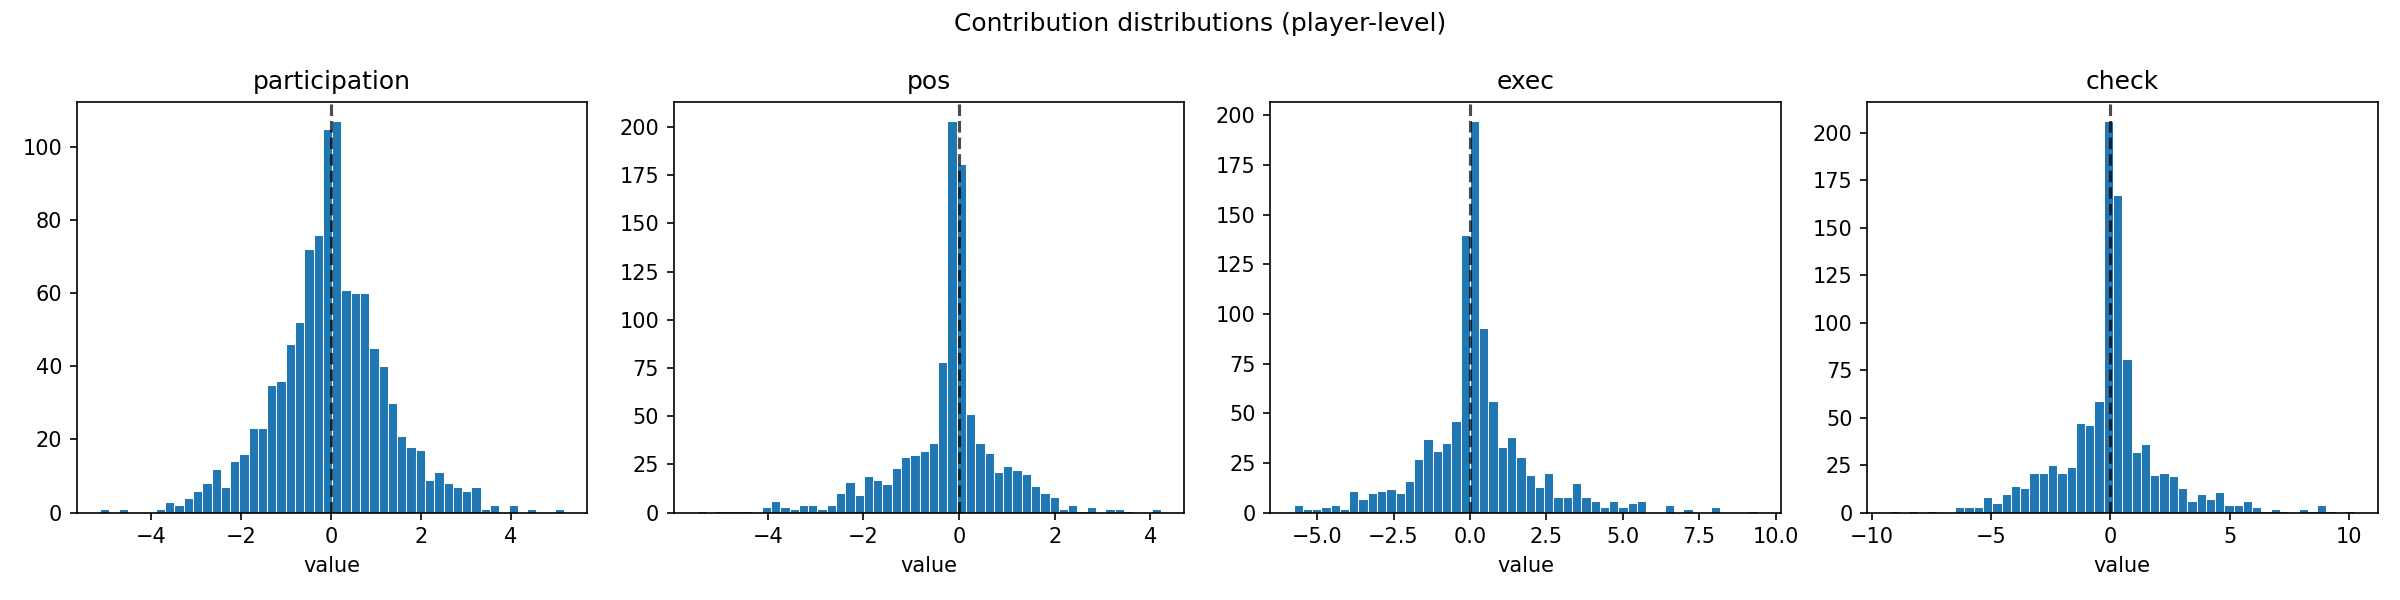
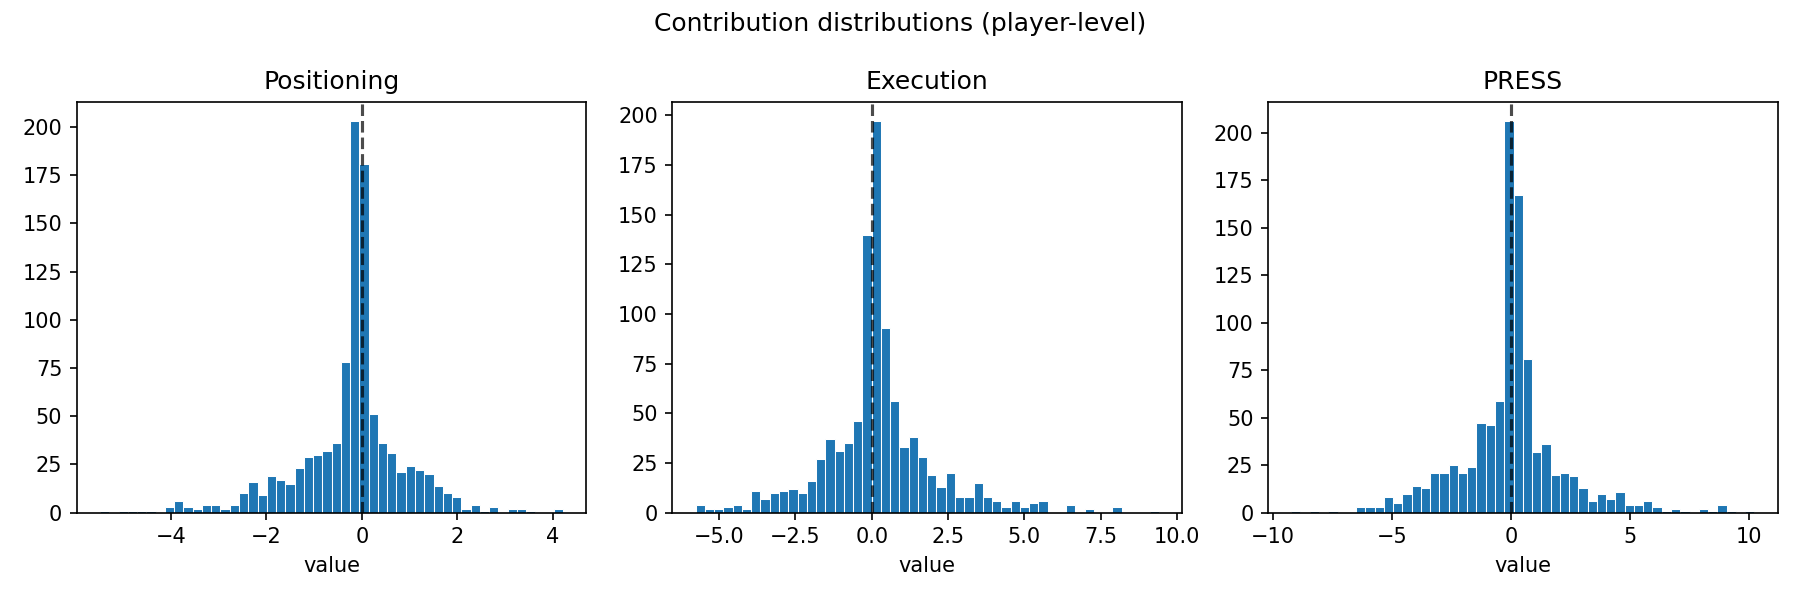
competition push

diff --git a/scripts/_visuals.py b/scripts/_visuals.py
@@ -421,44 +421,33 @@ def attribution_spreads() -> None:
 
 
 def contribution_distributions() -> None:
-    """Histograms: participation | pos | exec | check side by side."""
+    """Histograms: save Positioning, Execution, PRESS as separate PNGs for stacking in LaTeX."""
     data_specs = []
-    p_path = RESULTS_DIR / "participation.csv"
-    if p_path.exists():
-        df = pd.read_csv(p_path)
-        if "n_presses" in df.columns:
-            df = df.rename(columns={"n_presses": "n_press"})
-        if "total" in df.columns:
-            data_specs.append(("participation", df["total"].dropna(), "total"))
     m_path = RESULTS_DIR / "modeling.csv"
     if m_path.exists():
         m = pd.read_csv(m_path)
         if "pos_total" in m.columns:
-            data_specs.append(("pos", m["pos_total"].dropna(), "pos_total"))
+            data_specs.append(("Positioning", m["pos_total"].dropna(), "contrib_positioning.png"))
         if "exec_total" in m.columns:
-            data_specs.append(("exec", m["exec_total"].dropna(), "exec_total"))
+            data_specs.append(("Execution", m["exec_total"].dropna(), "contrib_execution.png"))
         if "check_total" in m.columns:
-            data_specs.append(("check", m["check_total"].dropna(), "check_total"))
+            data_specs.append(("PRESS", m["check_total"].dropna(), "contrib_press.png"))
     if not data_specs:
-        print("contribution_distributions: need participation.csv and/or modeling.csv")
+        print("contribution_distributions: need modeling.csv")
         return
 
     PLOTS_DIR.mkdir(parents=True, exist_ok=True)
-    n = len(data_specs)
-    fig, axes = plt.subplots(1, n, figsize=(4 * n, 4))
-    if n == 1:
-        axes = [axes]
-    for ax, (label, s, _) in zip(axes, data_specs):
+    for label, s, fname in data_specs:
+        fig, ax = plt.subplots(figsize=(6, 3))
         ax.hist(s, bins=50, edgecolor="white", linewidth=0.5)
         ax.axvline(0, color="black", linestyle="--", alpha=0.7)
         ax.set_title(label)
         ax.set_xlabel("value")
-    plt.suptitle("Contribution distributions (player-level)")
-    plt.tight_layout()
-    out = PLOTS_DIR / "contribution_distributions.png"
-    plt.savefig(out, dpi=150)
-    plt.close()
-    print(f"Saved: {out}")
+        plt.tight_layout()
+        out = PLOTS_DIR / fname
+        plt.savefig(out, dpi=150)
+        plt.close()
+        print(f"Saved: {out}")
 
 
 def player_rankings_visual(top_n: int = 20) -> None:
@@ -466,7 +455,7 @@ def player_rankings_visual(top_n: int = 20) -> None:
     paths = {
         "participation": (RESULTS_DIR / "participation.csv", "total"),
         "distance": (RESULTS_DIR / "distance.csv", "total"),
-        "modeling": (RESULTS_DIR / "modeling.csv", "check_total"),
+        "PRESS": (RESULTS_DIR / "modeling.csv", "check_total"),
     }
     dfs = {}
     for name, (p, total_col) in paths.items():
@@ -474,7 +463,7 @@ def player_rankings_visual(top_n: int = 20) -> None:
             df = pd.read_csv(p)
             if "n_presses" in df.columns and "n_press" not in df.columns:
                 df = df.rename(columns={"n_presses": "n_press"})
-            if total_col not in df.columns and name == "modeling":
+            if total_col not in df.columns and name == "PRESS":
                 total_col = "total"
             if total_col in df.columns and "player_name" in df.columns:
                 dfs[name] = df.nlargest(top_n, total_col)[["player_name", total_col]]
@@ -769,14 +758,14 @@ def plot_start_frame_positioning(seq_id: int) -> None:
     print(f"Saved: {out}")
 
 
-def team_level_check() -> None:
-    """Bar chart of team-level total check (modeling only)."""
+def team_level_press() -> None:
+    """Bar chart of team-level total PRESS (modeling only)."""
     s_path = DATA_DIR / "stints.parquet"
     paths = {
-        "check": (RESULTS_DIR / "modeling.csv", "check_total"),
+        "press": (RESULTS_DIR / "modeling.csv", "check_total"),
     }
     if not s_path.exists():
-        print("team_level_check: need stints.parquet")
+        print("team_level_press: need stints.parquet")
         return
 
     stints = pd.read_parquet(s_path)[["player_id", "team_id", "team"]].drop_duplicates()
@@ -794,16 +783,16 @@ def team_level_check() -> None:
         dfs[name] = agg
 
     if not dfs:
-        print("team_level_check: no method CSVs found")
+        print("team_level_press: no method CSVs found")
         return
 
-    # Merge all methods; sort by check (or first available)
+    # Merge all methods; sort by press (or first available)
     merged = dfs[list(dfs.keys())[0]][["team_id", "team"]].copy()
     for name in dfs:
         merged = merged.merge(dfs[name], on=["team_id", "team"], how="outer")
     for name in dfs:
         merged[name] = merged[name].fillna(0)
-    sort_col = "check" if "check" in merged.columns else list(dfs.keys())[0]
+    sort_col = "press" if "press" in merged.columns else list(dfs.keys())[0]
     merged = merged.sort_values(sort_col, ascending=True).reset_index(drop=True)
 
     n_methods = len(dfs)
@@ -819,12 +808,12 @@ def team_level_check() -> None:
         ax.set_yticks(range(len(merged)))
         ax.set_yticklabels(merged["team"].values)
         ax.invert_yaxis()
-        ax.set_xlabel("Total check")
+        ax.set_xlabel("Total PRESS")
         ax.axvline(0, color="black", linestyle="-", linewidth=0.5)
 
-    plt.suptitle("Team check")
+    plt.suptitle("Team PRESS")
     plt.tight_layout()
-    out = PLOTS_DIR / "team_check.png"
+    out = PLOTS_DIR / "team_press.png"
     plt.savefig(out, dpi=150)
     plt.close()
     print(f"Saved: {out}")
@@ -842,12 +831,12 @@ def main() -> None:
     parser.add_argument("--rankings", action="store_true", help="Top player bar charts")
     parser.add_argument("--player-press", action="store_true", help="Possession-level credit stats")
     parser.add_argument("--scatter", action="store_true", help="Modeling vs participation/distance scatter")
-    parser.add_argument("--team-check", action="store_true", help="Team-level check bar chart")
+    parser.add_argument("--team-press", action="store_true", help="Team-level PRESS bar chart")
     args = parser.parse_args()
 
     run_all = args.all or not any([
         args.possession, args.gifs, args.slot_audit, args.spreads,
-        args.distributions, args.rankings, args.player_press, args.scatter, args.team_check,
+        args.distributions, args.rankings, args.player_press, args.scatter, args.team_press,
     ])
 
     if run_all or args.possession:
@@ -866,8 +855,8 @@ def main() -> None:
         player_press_distributions()
     if run_all or args.scatter:
         ranking_comparison_scatter()
-    if run_all or args.team_check:
-        team_level_check()
+    if run_all or args.team_press:
+        team_level_press()
 
 
 if __name__ == "__main__":
